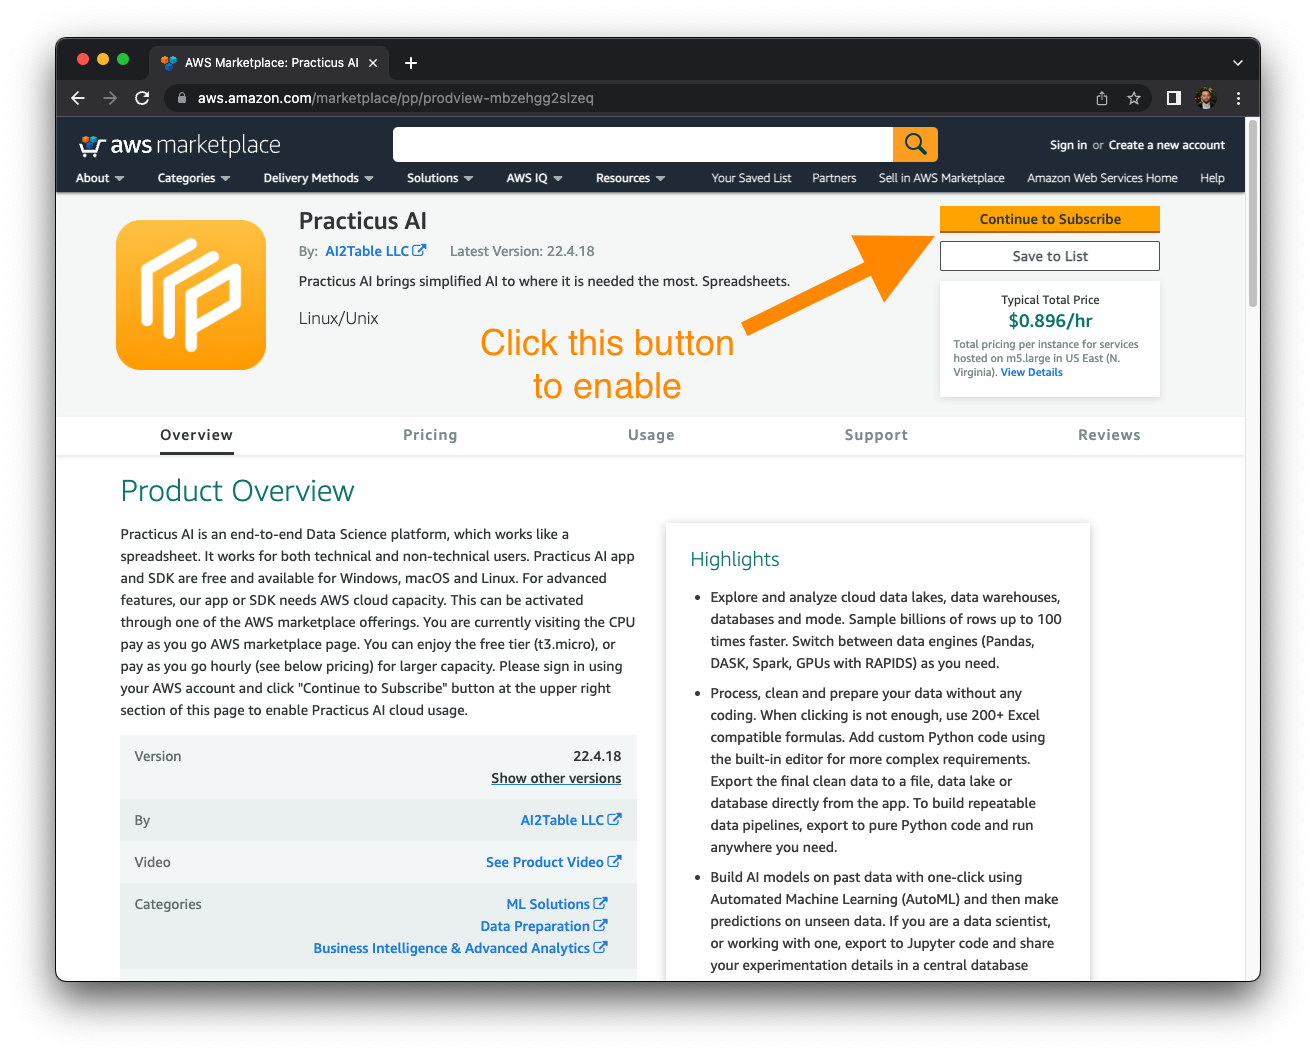
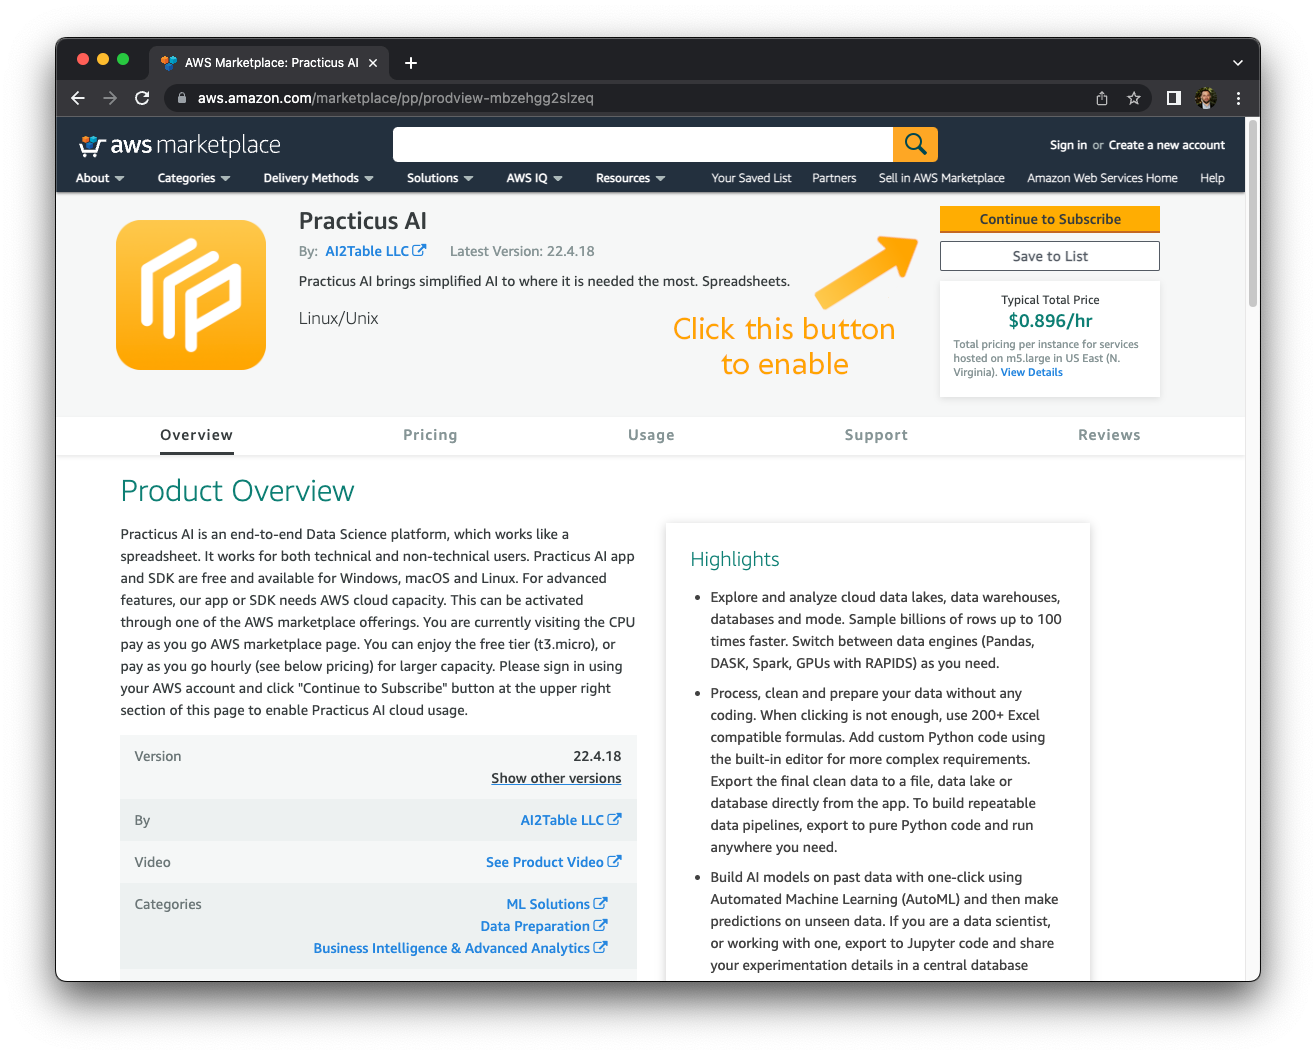
Updates to documentation

Changed region(s): [[0.3739, 0.2123, 0.7166, 0.3943]]

diff --git a/docs/advanced.md b/docs/advanced.md
@@ -3,7 +3,7 @@ In this section we will look at some advanced functionality of Practicus AI.
 
 ## Production Data Pipelines
 
-Typically, an ML workflow will depend on several cycles of data preparation steps before the final ML training can be done. This is rarely a one time task, since your ML model might eventually start drifting as time goes by (not predicting accurately anymore). When this happens, the first thing to try is usually re-training with new, fresh data. Which means you have to reload data from raw data sources, and apply data preparation steps again.  Instead of preparing data manually every time you train, some teams create automated data pipelines. These pipelines usually run on a schedule, for instance daily, creating clean and ready-to-train-on data sets. 
+Typically, an ML workflow will depend on several cycles of data preparation steps before the final ML training can be done. This is rarely a one time task, since your ML model might eventually start drifting as time goes by (not predicting accurately anymore). When this happens, the first thing to try is usually re-training with new, fresh data. Which means you have to reload data from raw data sources, and apply data preparation steps again.  Instead of preparing data manually every time you train, some teams create automated data pipelines. These pipelines typically run on a schedule, for instance daily, creating clean and ready-to-train-on data sets. 
 
 You can easily build data pipelines with Practicus AI, and embed them into existing data integration platforms.  All you need is a platform that can run Python. Please see some performance tips below in the example code 
 
@@ -16,7 +16,7 @@ import practicus
 # 1) create a Python .py file for the data pipeline
 # 2) place your data loading code as usual, from databases, S3 etc. 
 df = load_data_as_usual()
-# 3) excute changes in .dp files one after another
+# 3) execute changes in .dp files one after another
 practicus.apply_changes(df, "data_prep_1.dp", inplace=True)
 practicus.apply_changes(df, "data_prep_2.dp", inplace=True)
 # ...
@@ -34,7 +34,7 @@ save_to_final_dest_as_usual(df)
 
 **Deployment**
 
-Once the data pipeline Pyhton code (.py) is ready like the above, you can then "pip install practicus" in the data integration platform and run the .py file as usual. Please note that Practicus AI uses Java (>= v8.0) behind the scenes for some complex operations. Although it is unlikely, if there is no Java runtime (JRE) installed on the data integration platform, Practicus AI will download a local copy of the JRE, first time it runs. This local Java installation is purely a "file download" operation of a stripped down JRE, and will not need any root/admin privileges.  You can also manually trigger downloading the local JRE operation in advance by calling *practicus.install_jre()*, or install Java (>= v8.0) yourself. We recommend <a href="https://adoptopenjdk.net/" target="_blank">Open JDK</a>.  
+Once the data pipeline Python code (.py) is ready like the above, you can then "pip install practicus" in the data integration platform and run the .py file as usual. Please note that Practicus AI uses Java (>= v8.0) behind the scenes for some complex operations. Although it is unlikely, if there is no Java runtime (JRE) installed on the data integration platform, Practicus AI will download a local copy of the JRE, first time it runs. This local Java installation is purely a "file download" operation of a stripped down JRE, and will not need any root/admin privileges.  You can also manually trigger downloading the local JRE operation in advance by calling *practicus.install_jre()*, or install Java (>= v8.0) yourself. We recommend <a href="https://adoptopenjdk.net/" target="_blank">Open JDK</a>.  
 
 ## DP file structure
 
@@ -42,7 +42,7 @@ Practicus AI can detect changes made inside an Excel (.xlsx) file when you call 
 
 The .dp file is intended to be easily consumed by users that are **not** programmers or data scientists. The goal is to create a happy medium so that different user personas can view the changes detected in the .dp file and collaborate on a data science project.
 
-The .dp file does not necessarily need to only include changes that are detected by Practicus AI. As you can read below, you can freely add your own changes or remove existing ones, and then finally ask Practicus AI to run these data prep steps on your data sets to complete data preparatation. 
+The .dp file does not necessarily need to only include changes that are detected by Practicus AI. As you can read below, you can freely add your own changes or remove existing ones, and then finally ask Practicus AI to run these data prep steps on your data sets to complete data preparation. 
 
 The below is a simple .dp file example. 
 
@@ -54,7 +54,7 @@ The below is a simple .dp file example.
 Input_Columns = [Column Name 1], [Column Name 2], ..
 ```
 
-This is an *optional* section, but it is recommended to use for *data validation*. When Practicus AI starts analyzing an Excel (.xlsx) file, it will detect all of the visible column names and add them in the Input_Columns section.  When you execute apply_changes() with a new data set, Practicus AI will compare the column names of the inpot data set to Input_Columns and give you a warning if they are not the same. For example, let's assume you have a data set with Col_1, Col_2, Col_3 columns, export to .xlsx, make some changes and then run detect_changes(). You will see Input_Columns = [Col_1], [Col_2], [Col_3]. Let's assume you then go ahaed and delete  Col_2 in your data set, and apply the .dp file. You would get a warning that the input columns do not match with the input data set. 
+This is an *optional* section, but it is recommended to use for *data validation*. When Practicus AI starts analyzing an Excel (.xlsx) file, it will detect all the visible column names and add them in the Input_Columns section.  When you execute apply_changes() with a new data set, Practicus AI will compare the column names of the input data set to Input_Columns and give you a warning if they are not the same. For example, let's assume you have a data set with Col_1, Col_2, Col_3 columns, export to .xlsx, make some changes and then run detect_changes(). You will see Input_Columns = [Col_1], [Col_2], [Col_3]. Let's assume you then go ahead and delete  Col_2 in your data set, and apply the .dp file. You would get a warning that the input columns do not match with the input data set. 
 
 Example: 
 
@@ -82,7 +82,7 @@ Drop_Column(Col[ZN])
 Update(Col[name of the column to update] from_value to to_value)
 ```
 
-Updates **all** of the rows for a certain column from one value to another. For example, updating all missing values to 0. When a manual update of a cell is detected in the Excel file, an Update command is added to the .dp file. You do not need make the same update to all cells, just one ie enough to apply the change for that column. If the *same* value is updated to different values manually, only the first detected update will run. Other updates will be commented out. You can review these update commands and make changes on the .dp file as needed.
+Updates **all** the rows for a certain column from one value to another. For example, updating all missing values to 0. When a manual update of a cell is detected in the Excel file, an Update command is added to the .dp file. You do not need make the same update to all cells, just one ie enough to apply the change for that column. If the *same* value is updated to different values manually, only the first detected update will run. Other updates will be commented out. You can review these update commands and make changes on the .dp file as needed.
 
 Examples:
 
@@ -90,7 +90,7 @@ Examples:
 Update(Col[CHAS] blank to 1.0)
 Update(Col[text field] "abc" to "def")
 Update(Col[ZN] 5 to 10)
-# The below Update command is commented out by mlxl automatically,
+# The below Update command is commented out automatically,
 # since the same value (5) was updated to 10 in one Excel cell and to 11 in another
 # Update(Col[ZN] 5 to 11)
 ```
@@ -119,7 +119,7 @@ Rename_Column(Col[petal_width] to Col[petal width])
 Col[name of the column] = EXCEL_FUNCTION( .. EMBEDDED_FUNCTIONS(..) .. ) + OPERATORS
 ```
 
-Using functions to create formulas is probably one of the most powerful features of Excel. The same is true for Practicus AI data prep use case as well. Practicus AI currently interprets over **200+ Excel functions** and applies them with custom created Python code to your data set to perform the data transformation.  If Practicus AI ever encounters an Excel function that it doesn't understand, it will create a Python template for you to provide the missing functionality. Please read more about this in custom functions section below.   Practicus AI currently only supports functions and formulas to run on the same row.  For things like averages of all values for  a particular column, you can use seperate sheets or pivot tables to do yor analysis, and then finally perform the the data preparation steps on individual rows.  
+Using functions to create formulas is probably one of the most powerful features of Excel. The same is true for Practicus AI data prep use case as well. Practicus AI currently interprets over **200+ Excel functions** and applies them with custom created Python code to your data set to perform the data transformation.  If Practicus AI ever encounters an Excel function that it doesn't understand, it will create a Python template for you to provide the missing functionality. Please read more about this in custom functions section below.   Practicus AI currently only supports functions and formulas to run on the same row.  For things like averages of all values for  a particular column, you can use separate sheets or pivot tables to do yor analysis, and then finally perform the the data preparation steps on individual rows.  
 
 Examples:
 
@@ -149,7 +149,7 @@ Please note that columns with formulas are currently placed in the .dp file in o
 Remove_Except(Col[name of the column] criteria)
 ```
 
-Removes (filters) all of the rows that do **not** match the criteria. Citeria can be "is in [values]", logical operators like >, <, >=, <=, = and != and correspondign value, "and", "or".
+Removes (filters) all of the rows that do **not** match the criteria. Criteria can be "is in [values]", logical operators like >, <, >=, <=, = and != and corresponding value, "and", "or".
 
 Examples:
 
@@ -188,7 +188,7 @@ Sorts on column "AGE" from smallest to largest first, and then for the same AGE 
 Reorder_Columns([column name], [another column name], ..)
 ```
 
-All new columns are appended to the end of the data set by default.  Reorder_Columns command changes the order of the columns. Pelase note that since this command has to create a new data set internally, inplace=True updates for apply_changes() will not work. inplace=False is the default behaviour for apply_changes() function. 
+All new columns are appended to the end of the data set by default.  Reorder_Columns command changes the order of the columns. Please note that since this command has to create a new data set internally, inplace=True updates for apply_changes() will not work. inplace=False is the default behaviour for apply_changes() function. 
 
 Example:
 
@@ -233,7 +233,7 @@ def practicus_my_function(row, *args):
     
     # 'row' is a Pandas Data Frame row that you can access *any* column
     result = row['B'] + row['C'] + args[2] + args[3] + args[4]
-    # the below does the same, wihtout accessing row 
+    # the below does the same, without accessing row 
     result = args[0] + args[1] + args[2] + args[3] + args[4]
 
     return result

diff --git a/docs/setup-guide.md b/docs/setup-guide.md
@@ -1,54 +1,112 @@
-Welcome! Overall, it should take **~5 minutes for you to set up everything** and be ready to go!
+Welcome! It should take **2-5 minutes for you to set up everything** and be ready to go!
 
 Some information in this guide is for advanced scenarios, and you can safely ignore them if you prefer to keep it simple. 
 
 ## Installing Practicus AI app
 
-If you haven't already, please install Practicus AI app for [Windows](https://www.microsoft.com/en-us/p/practicus-ai/9p9f4hvkvcqg), [macOS](https://github.com/practicusai/app/releases/download/latest/practicus.pkg) or [Linux](#linux-installation).  
+If you haven't already, please install Practicus AI forever free app for [Windows](https://www.microsoft.com/en-us/p/practicus-ai/9p9f4hvkvcqg), [macOS](https://github.com/practicusai/app/releases/download/latest/practicus.pkg) or [Linux](#linux-installation).  
 
 If you are a Python user and prefer to install Practicus AI as a library, please check our [Python Setup Guide](#python-setup-guide) section below. 
 
 ## Cloud Activation
 
-Some of our advanced features require cloud worker nodes. You can activate the cloud capacity in a few minutes and use the **forever free cloud tier** using **2 vCPUs and 1 GB RAM**. For larger capacity, you can **pay-as-you-go hourly** without giving us your credit card info or making any commitments. 
+![cloud_setup_summary](img/cloud_setup_summary.png)
 
-Your organization can also acquire an **unlimited license for multiple users and with a fixed fee**. Please contact [sales](mailto:sales@practicus.ai?subject=Enterprise License) to learn more about our enterprise support and licensing.
+### Before we begin
+Some of our advanced features require cloud capacity. 
 
-### Creating an AWS account
+Instead of asking for access to your data, **Practicus AI cloud runs 100% in your AWS account, fully isolated.** This allows us to offer **improved security and absolute privacy**.
+
+You can activate Practicus AI on your AWS account in a few minutes, and use up to a certain cloud capacity **free of charge**.  Let's get started.
+
+### 1) Select license
+
+Practicus AI cloud offers 3 different licenses. 
+
+#### Free License
+
+We offer a **forever free cloud tier using 2 vCPUs and 1 GB RAM** on AWS with **t3.micro** cloud instances.
+
+Please note that some AWS cloud regions charge roughly 1 cent / hour for t3.micro. If you need to make sure everything your use is absolutely free, please make sure you pick an appropriate AWS cloud region. AWS also offer free tiers for other potential charges like S3 storage and network traffic. To keep everything free, you must experiment responsibly and make sure you do not go beyond these AWS limits. Please view [AWS free tier details](https://aws.amazon.com/free/) to learn more. 
+
+#### Professional license
+
+When you need **larger Practicus AI cloud capacity**, you can simply **pay-as-you-go (PAYG) hourly** without sharing your credit card info, or making any commitments. **AWS will charge** for the Practicus AI cloud usage **hourly**, which will show as a separate **Practicus AI line item in your monthly AWS cloud invoice**. 
+
+Practicus AI cloud **works like electricity**, you switch it on when you need it, and only pay for the total number of hours that the lights are on. Our cloud nodes **auto shut down** after 90 minutes of inactivity by default, **preventing unexpected costs**. It works similar to this scenario: you leave your home and forget to turn the lights off. Your lights turn off automatically after 1.5 hours, since there is no motion detected in the house. 
+
+Please visit [practicus.ai/pricing](https://practicus.ai/pricing/) for more info, and example pricing scenarios.   
+
+#### Enterprise license
+
+We offer a **bring-your-own-license (BYOL)** model with benefits such as **unlimited use for multiple users, with a fixed fee.**  
+
+If you have an enterprise license, simply open Practicus AI app and go to settings (preferences in macOS), cloud tab, and enter your email to activate your license.
+
+Please feel free to [contact us](https://practicus.ai/contact/) to learn more about our enterprise support and licensing.
+
+Use your email to activate the enterprise license in app settings:
+![Cloud License](img/cloud_license.png)
+
+### 2) Ready your AWS cloud account
+
+This is a **one-time task for all users** sharing the same AWS account. 
 
 Please skip this step if you already have an AWS account. 
 
-This is a **one-time task for all users** sharing the same AWS Account. If you do not have an AWS account already, please <a href="https://aws.amazon.com/" target="_blank">click here</a> to create a one for **free**. 
+<a href="https://portal.aws.amazon.com/billing/signup" target="_blank">Create an Amazon Web Services (AWS) cloud account</a> for **free**. 
 
 Please make sure you have created an **admin user** as well. You can check our [AWS account creation guide below](#aws-account-creation) for help.
 
 
-### Enabling AWS marketplace
+### 3) Enable on AWS marketplace
 
-This is a **one-time task for all users** sharing the same AWS Account. New to AWS marketplace? Please click [here](#aws-marketplace) to learn more. 
+This is a **one-time task for all users** sharing the same AWS Account. 
 
-We have multiple offerings on AWS marketplace. Please click on each in the below list to view the marketplace page explaining the offering, and then click **Continue to Subscribe** button to enable (see screenshot below). If in doubt, you can pick the first regular offering and safely ignore the rest **or** enable them all in one go in case you ever need them.  
+New to AWS marketplace? [Learn more](#aws-marketplace). 
 
-Please note that it can take a few minutes for the offering to be active. Once your subscription is active please do **not** create a new EC2 instance using AWS cloud console. Continue with the below activation step instead.   
+We have multiple offerings on AWS marketplace. Please click on each in the below list to view the marketplace page explaining the offering, and then click **Continue to Subscribe** button to enable (see screenshot below). You need at least one AWS marketplace offering enabled to use Practicus AI cloud. 
 
-#### Regular PAYG (pay-as-you-go) 
+Please note that it can take a few minutes for the offering to be active. Once your subscription is active, please do **not** create a new EC2 instance using AWS cloud console. The next step will take care of configuration.
+
+#### Free / Professional pay-as-you-go (PAYG) 
 
 - <a href="https://aws.amazon.com/marketplace/pp?sku=92p0y3k5wuzzfhi71lmcigl5q" target="_blank">Practicus AI</a> - Most common, offers free tier, will give you all of the functionality.
 - <a href="https://aws.amazon.com/marketplace/pp?sku=84fu9xjxpikj0pw37w8zchum" target="_blank">Practicus AI with GPUs</a> - Accelerated computing for very large data **or** if you have limited time. Can be 500+ times faster for some operations. 
 
-#### Enterprise License BYOL (bring-your-own-license)
+#### Enterprise License bring-your-own-license (BYOL)
 - <a href="https://aws.amazon.com/marketplace/pp?sku=5imq5zmm3najdjy989wuoytjo" target="_blank">Practicus AI</a> - Most common enterprise offer
 - <a href="https://aws.amazon.com/marketplace/pp?sku=3o0d18rnipiqy9isz9aw1fsrv" target="_blank" rel="noopener">Practicus AI with GPUs</a> - Accelerated computing, enterprise offer
 
-<div style="text-align: center;">Sample view of our AWS marketplace page</div>
 ![AWS Marketplace](img/aws-mp.png)
+<div style="text-align: center;">Sample view of our AWS marketplace page</div>
 
-### Registering AWS user 
+Please carefully review software, hardware and total cost / hour on our AWS marketplace page. Sample professional license below: 
 
-Simply open the Practicus AI app, go to settings (preferences in macOS), cloud tab and enter your AWS user credentials. We **do not** access your AWS credentials, Practicus AI app running on your laptop uses it completely isolated.  
+![AWS Marketplace](img/aws_mp_pricing.png)
 
-Please note that your AWS account needs one or more of our [AWS marketplace](#enabling-aws-marketplace) offerings enabled. 
+### 4) Activate your AWS user in the app 
 
+You should now have an AWS user **Access key ID** and **Secret access key** ready, and the AWS account for this user has at least one Practicus AI AWS marketplace offer enabled.   
+
+Simply open the Practicus AI app, go to settings (preferences in macOS), cloud tab, click the **Activate your AWS user** button, choose a default cloud region (you can change this later) and enter your cloud credentials:
+![Activate User](img/cloud_activate_user.png)
+
+Please note that your cloud credentials are not shared with 3rd parties, including Practicus AI. The app only uses the credentials to communicate with AWS cloud.
+
+Before you finalize the cloud settings, we will verify your configuration to check if everything is configured correctly.    
+
+![MP verification](img/aws_mp_verification.png)
+<div style="text-align: center;">Sample AWS marketplace verification result. You need at least one verified</div>
+
+
+### Troubleshooting
+
+If you could not verify one of the AWS marketplace offers, please check the below as potential reasons:
+
+- AWS marketplace activation can take a few minutes. Please make sure you stay on the AWS marketplace page, confirm the activation is completed and go back to the app settings to verify again.  
+- If you use multiple AWS accounts, please make sure you  subscribe using the correct AWS account since it is very easy to mix them up. Simply log-off from your AWS account, click on one of the view buttons inside the app settings to view AWS marketplace page again, login using the correct user, click subscribe, wait for it to be completed, and finally go back to app settings and click verify again.
+- In rare cases, a company admin can disable AWS marketplace usage. If this is the case, please contact your admin, or create a new AWS account. 
 
 ## References
 

diff --git a/docs/api-reference.md b/docs/api-reference.md
@@ -121,7 +121,7 @@ All steps completed.
 import pandas as pd
 df = pd.DataFrame(data=arr, columns=['x1', 'x2', 'x3'])
 
-# with inpalce=True, apply_changes() doesn't return anything 
+# with inplace=True, apply_changes() doesn't return anything 
 practicus.apply_changes(df, "basic_array.xlsx", inplace=True)
 # confirm x1 column is dropped
 display(df)

diff --git a/docs/model.md b/docs/model.md
@@ -19,7 +19,7 @@ When the model creation process is finished, some options appear.
 
 You can load the model in Excel, register it in MLflow, see the details of the experiment with MLflow, you can see the code with Jupyter Notebook.
 
-![mflow](img/mlflow.png)
+![mlflow](img/mlflow.png)
 
 ![jupyter](img/jupyter.png)
 

diff --git a/docs/data-prep.md b/docs/data-prep.md
@@ -16,7 +16,7 @@ practicus.export_data(my_df, "my_data.xlsx")
 
 2) Open the file in Excel, Google Sheets, LibreOffice or any other Spreadsheet platform to analyze and make changes as usual. 
 
-![exce_changes](img/excel_changes.png)
+![excel_changes](img/excel_changes.png)
 
 
 
